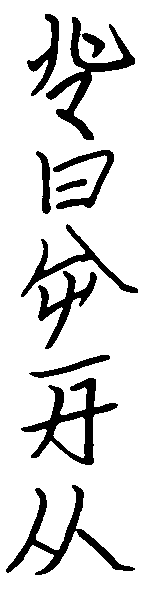
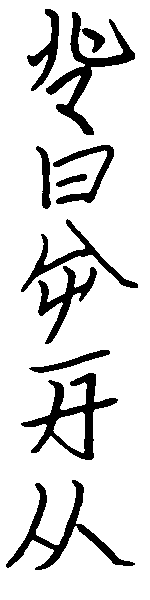
Tweak the image position again, and add audio

diff --git a/src/draw_erase_animate.ts b/src/draw_erase_animate.ts
@@ -12,6 +12,7 @@ import { toPath_ } from "./piece_to_path";
 import { removeAllChildren } from "extra-dom";
 import { add_cover, remove_cover } from "./protective_cover";
 import { DICTIONARY } from "./dictionary";
+import { KRUT_CRUOP } from "./main_entry";
 
 export let WHAT_ESC_KEY_TRIGGERS: () => void = () => { };
 
@@ -79,9 +80,13 @@ export async function notifyWaterEntryFailure() {
   add_cover("protective_cover_over_field_while_asyncawait");
 
   document.getElementById("season_transition_message_or_water_entry_failure_message_container")!.classList.remove("nocover");
-  await new Promise((resolve) => setTimeout(resolve, 500 * 0.8093));
+  await new Promise((resolve) => setTimeout(resolve, 300 * 0.8093));
+  if (KRUT_CRUOP) {
+    const water_entry_sound = new Audio("sound/water_entry.wav");
+    water_entry_sound.play();
+  }
+  await new Promise((resolve) => setTimeout(resolve, 1700 * 0.8093));
   if (sessionStorage.lang !== "x-faikleone") { alert(DICTIONARY.ja.failedWaterEntry); }
-  await new Promise((resolve) => setTimeout(resolve, 1500 * 0.8093));
 
   remove_cover("protective_cover_over_field");
   remove_cover("protective_cover_over_field_while_asyncawait");

diff --git a/ephemera/2022-12-29-water-entry-message.md b/ephemera/2022-12-29-water-entry-message.md
@@ -43,3 +43,5 @@ drawCiurlWithAudio(o.water_entry_ciurl, Side.Downward);
 デプロイした。日本語環境だとアラートが出て絶妙に UI がぐちゃぐちゃするが、ファイクレオネ版だとかなり自然な UI になるんだよな。うーんどうしようかね。
 
 ああ、あと画像自体がちょっと下すぎてはみ出ているから直そう。直した。
+
+まだはみ出る。もうちょい上に。あとアラートのタイミングを変える。オーディオも足すか。
